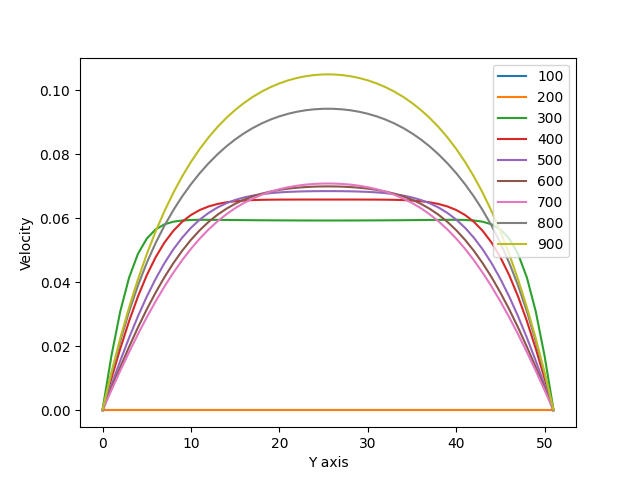
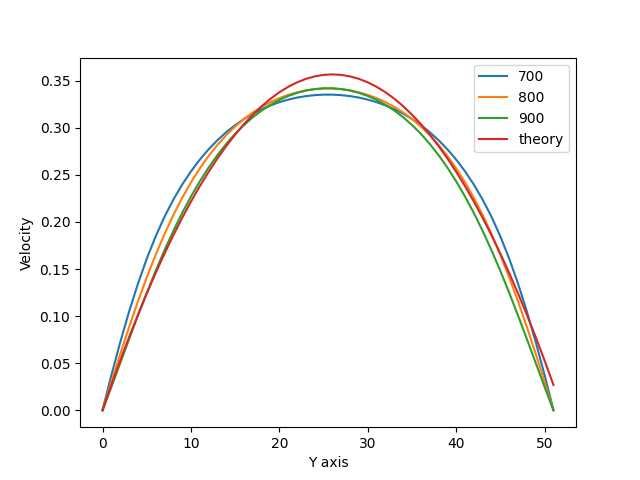
added milestone 5 plots, and started milestone 6

diff --git a/milestone5.py b/milestone5.py
@@ -8,8 +8,14 @@ import random
 # def equilibrium_distribution_efficient(rho, U_vector) :
 
 def set_poiseuille_boundary(probability_density_grid) :
-    Rhin = np.full(probability_density_grid.shape[1:], 1.1)
-    Rhout = np.full(probability_density_grid.shape[1:], .9)
+
+    cs = 1/3
+    pout = .1
+    pin = .01
+    delta_p = pout - pin
+    
+    Rhin = np.full(probability_density_grid.shape[1:], (pout + delta_p)/cs**2)
+    Rhout = np.full(probability_density_grid.shape[1:], pout/cs**2)
     
     velocity_grid = mu(probability_density_grid)
     
@@ -44,7 +50,10 @@ def create_poiseuille_grid() :
 def plot_velocity_profile() :
     framestop = 1000
     omega = 1.2
-    tmax = 8000
+    viscosity =  0.2
+    pout = .1
+    pin = .01
+    delta_p = pout - pin
     collision_function = lambda density_grid : collision_term(density_grid, omega)
     density_grid_plot = create_poiseuille_grid()
 
@@ -55,13 +64,38 @@ def plot_velocity_profile() :
         print(i, '/', framestop, end='\r')
         density_grid_plot = streaming2D(density_grid_plot, direction, collision=collision_function, boundary=set_couette_boundary_fixed, pressure=set_poiseuille_boundary, test=True)
         plot_arr = mu(density_grid_plot)[0, :, 150]
-        if i%100 == 0 and i != 0:
+        if i%100 == 0 and i != 0 and i > 699:
             plt.plot(plot_arr, label=str(i))
-        
+    
+    analytical_solution = [-delta_p*y*(y - density_grid_plot.shape[1])/(2*viscosity*rho(density_grid_plot).mean(axis=0).sum()) for y in range(density_grid_plot.shape[1])]
+    plt.plot(analytical_solution, label='theory')
     plt.xlabel('Y axis')
     plt.ylabel('Velocity')
     plt.legend()
     plt.savefig(result_repo+'velocity_on_axis_poiseuille_flow.png')
+    plt.close()
+    
+
+def plot_velocity_profile_heatmap(framestop = 1000) :
+    omega = 1.2
+    collision_function = lambda density_grid : collision_term(density_grid, omega)
+    density_grid_plot = create_poiseuille_grid()
+
+    plot_arr = np.zeros(300)
+    
+    plt.figure()
+    for i in range(framestop + 1) :
+        print(i, '/', framestop, end='\r')
+        density_grid_plot = streaming2D(density_grid_plot, direction, collision=collision_function, boundary=set_couette_boundary_fixed, pressure=set_poiseuille_boundary, test=True)
+        if i == framestop :
+            plot_arr = mu(density_grid_plot)[0, :, :]
+    
+    plt.imshow(plot_arr, cmap='viridis')
+    plt.xlabel('X axis')
+    plt.ylabel('Y axis')
+    plt.gca().invert_yaxis()
+    plt.colorbar()
+    plt.savefig(result_repo+'velocity_profile_poiseuille_flow_' + str(framestop) + '.png')
     plt.close()
     
     
@@ -70,3 +104,7 @@ if __name__ == "__main__" :
     collision_function = lambda density_grid : collision_term(density_grid, .7)
     animate(file="poiseuille_boundary.mp4", velocity_active=True, collision=collision_function, create_grid=create_poiseuille_grid, frames=200, interval=100, boundary=set_couette_boundary_fixed, pressure=set_poiseuille_boundary)
     plot_velocity_profile()
+    plot_velocity_profile_heatmap(framestop=1)
+    plot_velocity_profile_heatmap(framestop=500)
+    plot_velocity_profile_heatmap(framestop=1000)
+    

diff --git a/milestone6.py b/milestone6.py
@@ -1,0 +1,18 @@
+import numpy as np
+import matplotlib.pyplot as plt
+from milestone2 import collision_term, W, rho, equilibruim_distribution, mu
+from milestone1 import direction, create_density_grid, animate, plot_density_grid, result_repo, streaming2D
+from milestone4 import set_couette_boundary_fixed
+import random
+
+
+
+
+
+
+
+
+
+
+if __name__ == "__main__" :
+    print('hi milestone 6')
